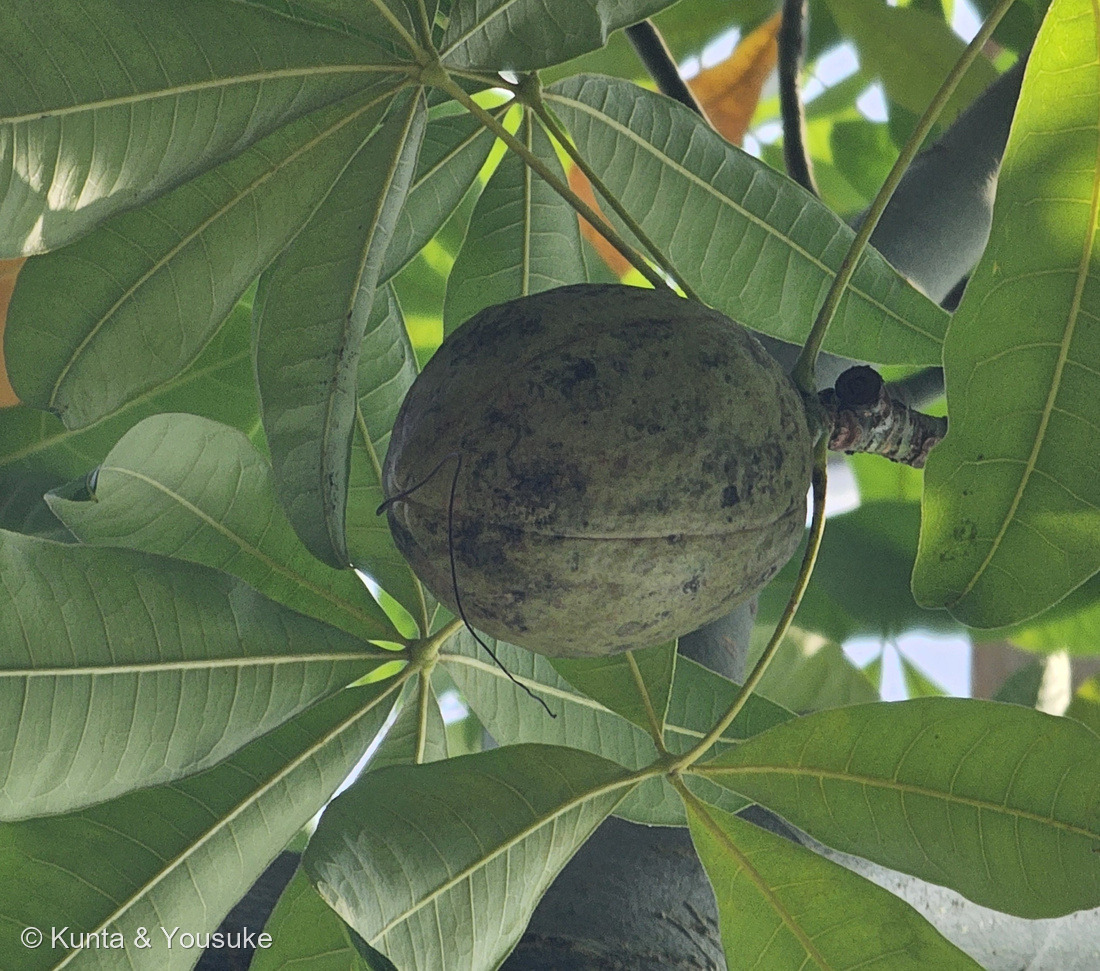
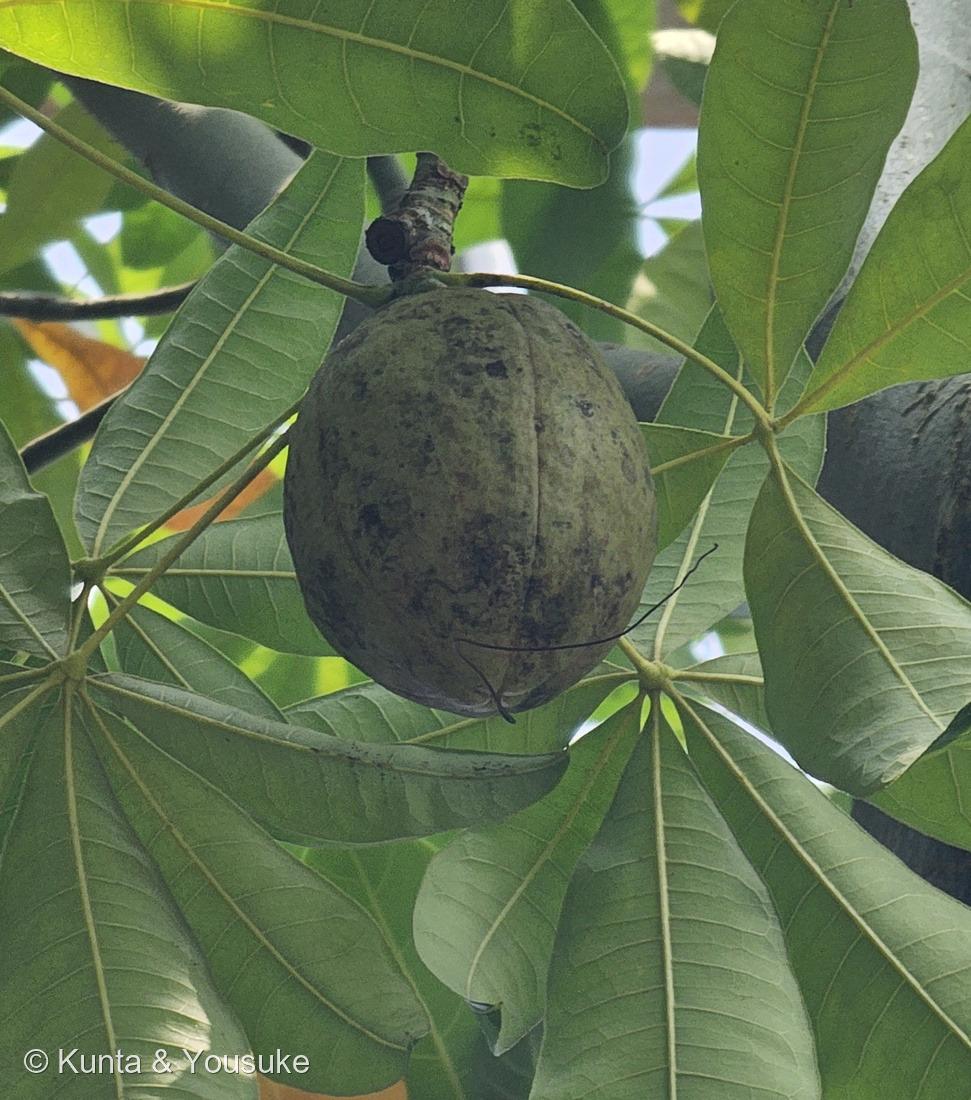
Rotate No.265 photos 3 and 4 counter-clockwise 90 degrees
Kunta spotted that the branch shots read correctly with the trunk
rising from below and the fruit hanging downward. Alt text and photo
descriptions updated to match.

Claude-Session: https://claude.ai/code/session_016iVsC5BTih7LSUHw9g8KCg

diff --git a/p/265.html b/p/265.html
@@ -19,8 +19,8 @@
       <div class="mount gallery">
         <img class="g-img show" data-idx="0" src="../img/265.jpg" loading="lazy" alt="温室の中で見上げたパキラの木の写真。まっすぐな緑色の幹がガラスの屋根に向かって高く立ち上がり、上のほうで枝を四方に広げて葉をしげらせている。すきまから青空が見える。幹の下のほうに小さな黒い名札がかかる。">
         <img class="g-img" data-idx="1" src="../img/265b.jpg" loading="lazy" alt="パキラの幹を近くから写した写真。幹の表面はあざやかな緑色で、細かい白っぽい点がびっしり散らばる。枝を落とした跡がこぶになって出っぱっている。幹には白いふちの黒い名札がかかり、左には茶色く枯れた王冠のような葉のビカクシダが着いている。">
-        <img class="g-img" data-idx="2" src="../img/265c.jpg" loading="lazy" alt="パキラの葉と果実の写真。長い葉柄の先から細長い小葉が5枚から7枚、指を広げるように放射状に出る掌状複葉が何枚も重なる。その真ん中に、灰緑色の丸い実がひとつぶら下がっている。下には灰白色の太い枝。">
-        <img class="g-img" data-idx="3" src="../img/265d.jpg" loading="lazy" alt="パキラの果実を大きく写した写真。実はなめらかな灰緑色の楕円球で、表面に濃い染みが散らばる。縦に走る縫い目のような筋が2本見える。短くて太い柄で枝についていて、まわりを掌状の葉が取りかこむ。">
+        <img class="g-img" data-idx="2" src="../img/265c.jpg" loading="lazy" alt="パキラの葉と果実の写真。画面の右に灰白色の太い幹が立ち上がり、そこから横に伸びた枝に、長い葉柄の先から細長い小葉が5枚から7枚、指を広げるように放射状に出る掌状複葉が何枚も重なる。その中ほどに、灰緑色の丸い実がひとつ、短い柄で下向きにぶら下がっている。">
+        <img class="g-img" data-idx="3" src="../img/265d.jpg" loading="lazy" alt="パキラの果実を大きく写した写真。実はなめらかな灰緑色の楕円球で、表面に濃い染みが散らばる。上にある短くて太い柄から下向きにぶら下がり、縫い目のような筋が上から下へ2本通っている。まわりを掌状の葉が取りかこむ。">
         <div class="g-map" data-idx="4" data-cc="MX,GT,BZ,SV,HN,NI,CR,PA,CU,JM,HT,DO,PR,BS,TT,CO,VE,GY,SR,EC,PE,BO,BR,PY"><p class="g-map-load">地図を読み込んでいるよ…</p></div>
       </div>
       <div class="g-bar" role="group" aria-label="写真と地図を切り替え">
@@ -66,7 +66,7 @@
       <li>⭐⭐<strong>しかも、花が咲くには<b>実生株（種から育った株）</b>である必要があって、種からだと「<b>最低でも5年</b>」かかる</strong>（GreenSnap）。⚠<strong>売られている編み込みのパキラは挿し木でふやしたものが多いから、花が咲かないんだ。</strong></li>
       <li>⭐⭐⭐<strong>つまりこの木は、<b>種から育って何年もたった株</b>だということ。</strong>⭐<strong>燻太さんが見上げたあの実は、その何年ぶんかの、いちばん最後のところなんだね。</strong></li>
       <li>⭐⭐<strong>実の形は「<b>径７cm、長さ10cm程の楕円球状の果実</b>」</strong>（山科植物資料館）＝⭐<strong>写真④とぴったりだよ。</strong></li>
-      <li>⭐<strong>写真④に、縦に走る<b>縫い目のような筋</b>が2本見える。</strong>⭐<strong>熟すと「<b>果実が裂けて周囲にタネを飛ばします</b>」</strong>（みんなの趣味の園芸）＝⭐<strong>あの筋が、その裂け目になるはずだよ。</strong></li>
+      <li>⭐<strong>写真④に、<b>上から下へ走る縫い目のような筋</b>が2本見える。</strong>⭐<strong>熟すと「<b>果実が裂けて周囲にタネを飛ばします</b>」</strong>（みんなの趣味の園芸）＝⭐<strong>あの筋が、その裂け目になるはずだよ。</strong></li>
       <li>⭐⭐<strong>中の種は「<b>ギアナクリ</b>」と呼ばれて食べられる</strong>＝<strong>「<b>デンプン質に富み、炒って食べると、ヘーゼルナッツのような風味がある</b>」</strong>（山科植物資料館）。⭐<strong>英名 Malabar chestnut・Guiana chestnut の「chestnut（クリ）」も、ここから来ているよ。</strong></li>
       <li>⭐<strong>種のようすは「<b>径2cmほどで、ゆがんだ栗状をしている。種皮は、茶色で、黄白色の縞模様</b>」</strong>（同）＝⏳<strong>落ちた種をさがすのを、宿題にした。</strong></li>
     </ul></div></section>
